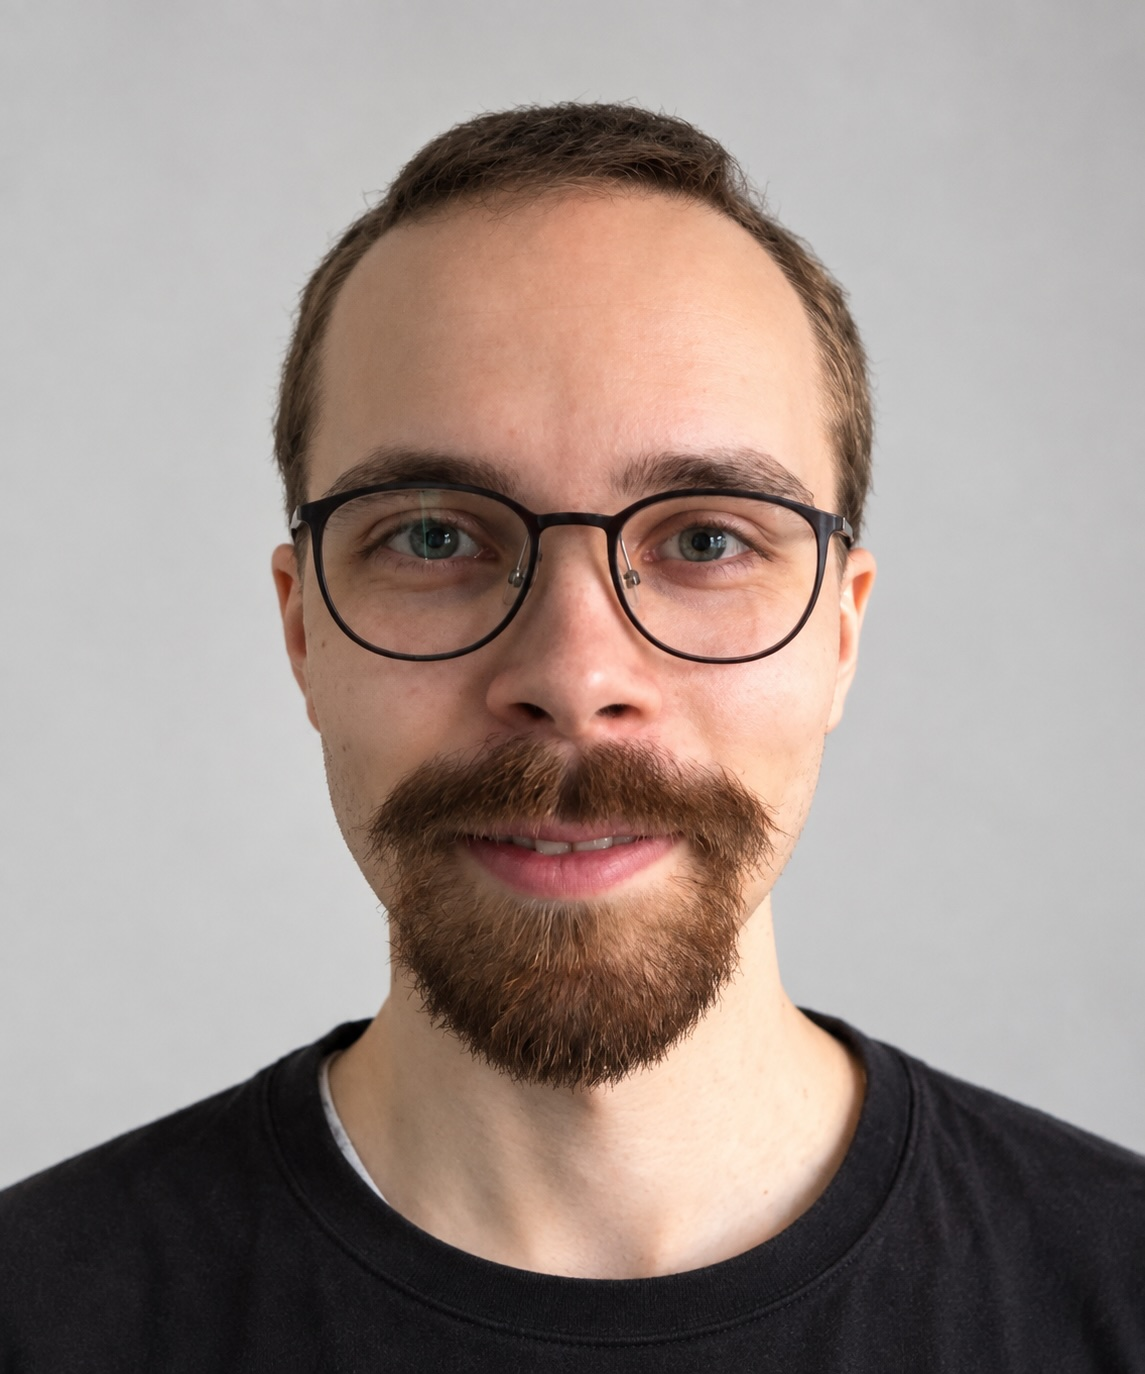
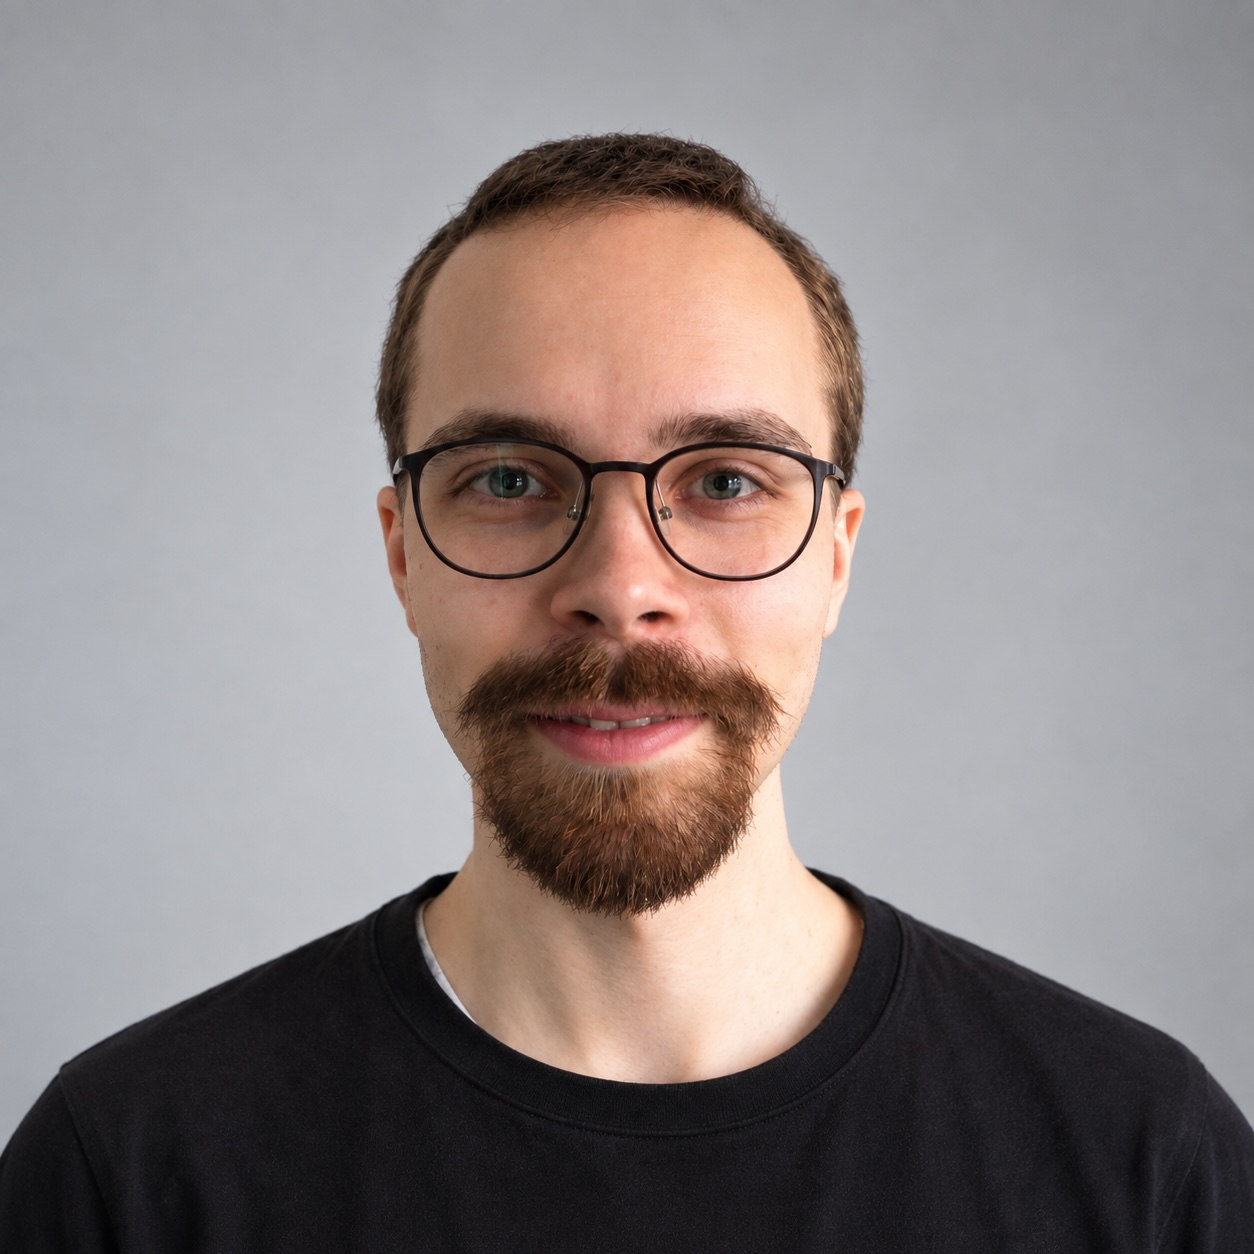
Update portrait to circular

diff --git a/index.html b/index.html
@@ -24,12 +24,13 @@
   }
   header { margin-bottom: 28px; }
   .header-row {
+    position: relative;
     display: flex;
     gap: 24px;
     align-items: flex-start;
     justify-content: space-between;
   }
-  .header-main { flex: 1; min-width: 0; }
+  .header-main { flex: 1; min-width: 0; padding-right: 190px; }
   h1 {
     font-size: 34px;
     font-weight: 700;
@@ -74,33 +75,20 @@
   }
   .summary + .summary { margin-top: 8px; }
 
-  /* Portrait placeholder – save your photo as portrait.jpg next to index.html,
-     then replace this div with:
-     <img class="portrait-img" src="portrait.jpg" alt="Portrait of Emil Laine" /> */
-  .portrait {
-    flex: 0 0 104px;
-    width: 104px;
-    height: 104px;
-    border-radius: 50%;
-    border: 1px dashed #bbb;
-    background: #f6f6f6;
-    color: #555;
-    display: flex;
-    flex-direction: column;
-    align-items: center;
-    justify-content: center;
-    font-size: 26px;
-    font-weight: 700;
-    line-height: 1;
-    gap: 4px;
-    user-select: none;
-  }
-  .portrait small { font-size: 9.5px; font-weight: 400; color: #888; }
   .portrait-img {
-    flex: 0 0 104px;
-    width: 104px;
-    height: auto;
-    border-radius: 8px;
+    position: absolute;
+    top: 0;
+    bottom: 0;
+    right: 0;
+    margin-top: auto;
+    margin-bottom: auto;
+    height: 100%;
+    max-height: 166px;
+    width: auto;
+    max-width: 166px;
+    aspect-ratio: 1 / 1;
+    border-radius: 50%;
+    object-fit: cover;
     display: block;
   }
 
@@ -138,7 +126,6 @@
     align-items: center;
     gap: 10px;
   }
-  /* Company / client logos (saved locally in logos/ for offline reliability) */
   .logo-img {
     height: 28px;
     width: auto;
@@ -151,59 +138,18 @@
     color: #111;
   }
   .date { font-size: 13px; color: #555; white-space: nowrap; }
-  .clients-row {
-    display: flex;
-    gap: 8px;
-    flex-wrap: wrap;
-    margin-top: 8px;
-    align-items: center;
-  }
-  .clients-label { font-size: 13px; color: #555; }
-  .client-chip {
-    display: inline-flex;
-    align-items: center;
-    gap: 8px;
-    border: none;
-    border-radius: 6px;
-    padding: 4px 10px;
-    font-size: 12.5px;
-    font-weight: 600;
-    color: #111;
-    background: #f2f2f2;
-  }
-  .chip-img {
-    height: 18px;
-    width: auto;
-    max-width: 60px;
-    object-fit: contain;
-    display: block;
-    font-size: 9px;
-    font-weight: 800;
-    color: #111;
-  }
-
-  /* Condensed bullet lists */
-  ul { margin: 6px 0 0 18px; }
   li { margin-bottom: 3px; color: #222; line-height: 1.45; }
   li strong { color: #111; font-weight: 650; }
   .skills-list { list-style: none; margin: 0; }
   .skills-list li { margin-bottom: 5px; line-height: 1.45; }
   .skills-list span.label { font-weight: 700; color: #111; }
-  /* Single-line horizontal list: no bullet */
   .flat-list { list-style: none; margin-left: 0; }
   .flat-list li { display: flex; gap: 28px; flex-wrap: wrap; }
 
-  /* Client work under Reaktor, flush with the job content */
   .sub-client {
     margin: 10px 0 0 0;
     padding: 10px 0 2px 0;
   }
-  .sub-client .via {
-    font-size: 12.5px;
-    font-weight: 400;
-    color: #555;
-  }
-  /* Selected client work: logo + text rows, no bullets */
   .client-entry {
     display: flex;
     gap: 12px;
@@ -227,25 +173,10 @@
     object-fit: contain;
     display: block;
   }
-  /* Per-logo optical sizing: tall/square logos need more height,
-     wide solid logos need less to avoid dominating */
   .client-entry .entry-logo img.logo-epic { max-height: 36px; max-width: 40px; }
   .client-entry .entry-logo img.logo-rds { max-height: 34px; max-width: 34px; }
   .client-entry .entry-logo img.logo-at { max-height: 34px; max-width: 34px; border-radius: 4px; }
   .client-entry .entry-logo img.logo-kone { max-height: 18px; max-width: 48px; }
-  .entry-mono {
-    display: inline-flex;
-    align-items: center;
-    justify-content: center;
-    height: 24px;
-    min-width: 36px;
-    padding: 0 6px;
-    background: #f2f2f2;
-    border-radius: 5px;
-    font-size: 11px;
-    font-weight: 800;
-    color: #111;
-  }
   .client-entry .entry-title { font-size: 14px; color: #111; }
   .client-entry p { font-size: 13.8px; line-height: 1.5; color: #222; margin-top: 1px; }
 
@@ -269,12 +200,18 @@
   @media (max-width: 600px) {
     .page { padding: 32px 20px; }
     .header-row { flex-direction: column-reverse; }
+    .header-main { padding-right: 0; }
+    .portrait-img {
+      position: static;
+      height: 104px;
+      width: 104px;
+      max-height: none;
+      max-width: none;
+      margin: 0;
+      align-self: flex-start;
+    }
   }
-  /* Every printed page gets real top/bottom margins via @page.
-     NOTE: the browser's own header/footer (URL, date, page numbers) is
-     controlled by the print dialog – uncheck "Headers and footers" when
-     saving the PDF. (A zero @page margin would suppress them via CSS but
-     breaks top/bottom margins on multi-page documents.) */
+  /* Print: A4 with page margins. Disable browser headers/footers in the print dialog. */
   @page { size: A4; margin: 13mm 12mm; }
   @media print {
     .toolbar { display: none; }
@@ -319,7 +256,6 @@
           </div>
         </div>
       </div>
-      <!-- Portrait: save the provided photo as portrait.jpg next to index.html -->
       <img class="portrait-img" src="portrait.jpg" alt="Portrait of Emil Laine" onerror="this.style.display='none'" />
     </div>
     <p class="summary">
